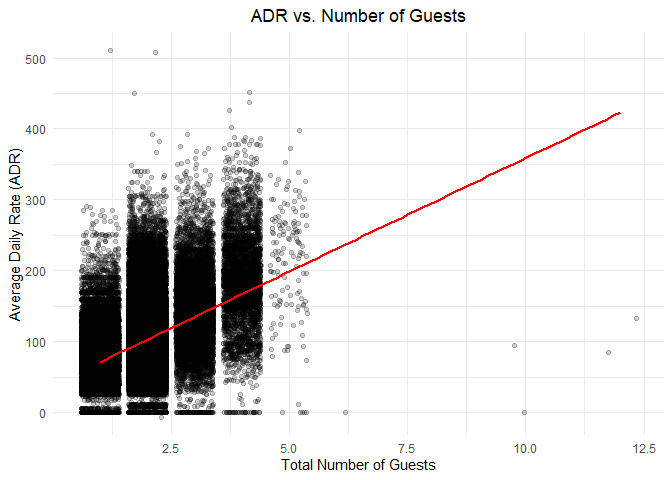
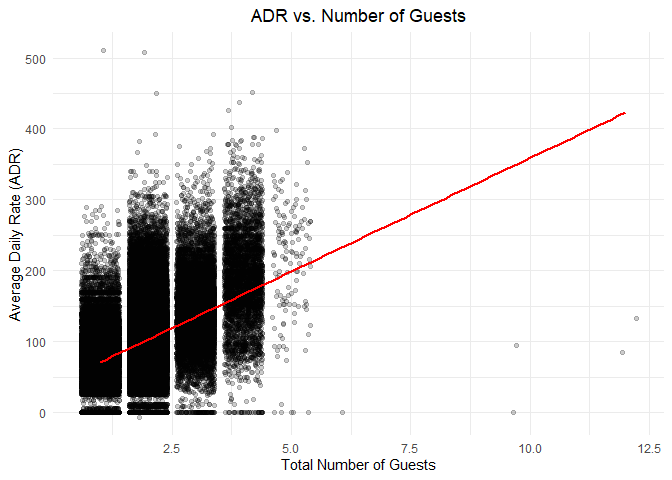
Added conclusion

diff --git a/README.md b/README.md
@@ -1322,3 +1322,46 @@ However, Portugal by FAR has the most bookings with almost 5,000, and
 the next largest is only around 1200 to 1300 bookings.
 
 ### Conclusion
+
+In conclusion, our analysis of the data on hotel bookings for a city and
+a resort hotel has led to many interesting discoveries. Despite feeling
+confident in our original hypotheses, there were still a few discoveries
+made that surprised us. Some variables did seem to have bigger impacts
+on the hotel bookings, though. The ones we think would be most notable
+to hotel businesses would be the time of year (month, year, etc), as
+well as customer type and market segment, ADR, and lead time. There are
+many other significant variables as well, these are just a few we found
+to be very valuable. The information provided in this report will
+benefit hotels looking to understand their customers’ behaviors by
+helping them absorb the data and provide better experiences to their
+customers while boosting the hotel’s profits and success. For example,
+now that we know that Portugal is the country of origin for most of
+their customers, this hotel could focus their advertisements around
+knowing what countries are the most interested in order to keep those
+customers, and maybe if they want to expand to more countries, they
+could increase advertising in the next few highest countries to start
+increasing worldwide business. Along with that, by examining the number
+of bookings per month the hotel business would know when they might be
+able to increase their rates, versus months when they might want to
+lower them to get more business. These are just a couple of examples of
+how this data will help hotel businesses. This data might also help
+customers, as by looking at these graphs they might be able to make
+estimates of when the hotels will be cheapest to book or when tourism is
+least crowded, etc., so they can better plan trips for themselves.
+
+In order to dive deeper into what factors impact hotel bookings and why,
+we would suggest further research be done on more hotels across the
+world and provide our analyses with that data. Not knowing what country
+or location these hotels were located in made some inferences difficult,
+as weather is a big factor in trips and we weren’t fully able to make
+solid guesses on reasons for things such as cancellations, frequency of
+bookings, or stay time. In the future we would also like to analyze data
+on some of the variables we did not touch on, such as room type,
+companies, reservation statuses, meal, etc. It also would be beneficial
+to have a variable recorded that represents how satisfied customers were
+with their stay. So, in future data sets collected, this should be a
+factor that is included. Finally, we would also like to be able to
+analyze more recent hotel booking data, post 2020. So, for a next step
+we propose that we collect data on more hotels from more recent years,
+and include a customer satisfaction variable and a hotel location
+variable.
